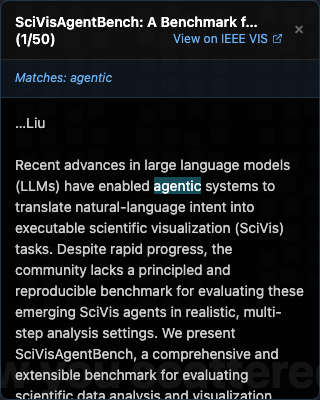
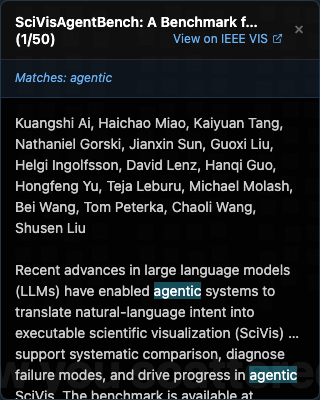
IEEE VIS popup: cut the middle between far-apart hits, keep authors on a first piece
Hits more than 60 words apart are shown as separate passages joined by an
ellipsis; a paper's first piece keeps its authors whatever is searched.

Claude-Session: https://claude.ai/code/session_01DBAPtZoiNH14vcZbZFmLgJ

Changed region(s): [[0.0312, 0.27, 0.9688, 1.0]]

diff --git a/apps/ieeevis/src/excerpts.ts b/apps/ieeevis/src/excerpts.ts
@@ -7,6 +7,8 @@ import type { PaperTexts } from './data.ts';
 
 /** Words kept on each side of the hits. */
 export const HIT_CONTEXT_WORDS = 10;
+/** The most words between two hits that are still shown. */
+export const HIT_GAP_WORDS = 60;
 /** About how long a default excerpt is; a sentence runs on to a whole one up to the longer limit. */
 const DEFAULT_WORDS = 20;
 const DEFAULT_WORDS_MAX = 26;
@@ -35,22 +37,42 @@ function cut(
 }
 
 /**
- * The words around the hits, from `context` words before the first to `context` after the
- * last, so several hits read as one passage; null when there are none.
+ * The words around the hits, `context` words either side. Hits no more than `gap` words apart
+ * read as one passage, with the words between them; further apart, the middle is left out.
+ * Null when there are no hits.
  */
 export function hitExcerpt(
   text: string,
   hits: readonly TextRange[],
   context = HIT_CONTEXT_WORDS,
+  gap = HIT_GAP_WORDS,
 ): string | null {
-  if (hits.length === 0) return null;
   const spans = wordSpans(text);
-  const hitStart = Math.min(...hits.map((h) => h.start));
-  const hitEnd = Math.max(...hits.map((h) => h.end));
-  const first = spans.findIndex((s) => s.end > hitStart);
-  const last = spans.filter((s) => s.start < hitEnd).length - 1;
-  if (first < 0 || last < first) return null;
-  return cut(text, spans, Math.max(0, first - context), Math.min(spans.length - 1, last + context));
+  const found = hits
+    .map((h) => ({
+      from: spans.findIndex((s) => s.end > h.start),
+      to: spans.filter((s) => s.start < h.end).length - 1,
+    }))
+    .filter((h) => h.from >= 0 && h.to >= h.from)
+    .sort((a, b) => a.from - b.from);
+  if (found.length === 0) return null;
+
+  const passages = [{ ...found[0] }];
+  for (const hit of found.slice(1)) {
+    const last = passages[passages.length - 1];
+    if (hit.from - last.to - 1 <= gap) last.to = Math.max(last.to, hit.to);
+    else passages.push({ ...hit });
+  }
+  const reach = passages.map(({ from, to }) => ({
+    from: Math.max(0, from - context),
+    to: Math.min(spans.length - 1, to + context),
+  }));
+  const read = reach
+    .map((r) => text.slice(spans[r.from].start, spans[r.to].end))
+    .join(` ${ELLIPSIS} `);
+  const lead = reach[0].from > 0 ? ELLIPSIS : '';
+  const trail = reach[reach.length - 1].to < spans.length - 1 ? ELLIPSIS : '';
+  return lead + read + trail;
 }
 
 const NOT_AN_END = new Set([

diff --git a/apps/ieeevis/src/text.ts b/apps/ieeevis/src/text.ts
@@ -175,10 +175,17 @@ export const ieeevisText: MapText<PieceItem, TermSettings> = {
         const text = isPlaceholder(item) ? NO_TEXT : texts?.[item.id];
         const shown = text && item.section === 'f' ? referenceLines(text) : text;
         const body = squareBody(item, shown);
-        const hits = search ? hitRanges(item, body, search) : [];
+        // A paper's first piece always keeps its authors, which come before the text in `body`.
+        const authorsLength = body.length - (shown?.length ?? 0);
+        const hits = (search ? hitRanges(item, body, search) : [])
+          .filter((h) => h.start >= authorsLength)
+          .map((h) => ({ start: h.start - authorsLength, end: h.end - authorsLength }));
+        const hit = shown && !isPlaceholder(item) ? hitExcerpt(shown, hits) : null;
         const excerpt = isPlaceholder(item)
           ? body
-          : (hitExcerpt(body, hits) ?? defaultBody(item, shown, texts));
+          : hit !== null
+            ? squareBody(item, hit)
+            : defaultBody(item, shown, texts);
         return {
           ref: `${title}, piece\u00a0${item.piece + 1}\u00a0of\u00a0${pieces.length}`,
           hebrew: '',

diff --git a/apps/ieeevis/test/excerpts.test.ts b/apps/ieeevis/test/excerpts.test.ts
@@ -24,6 +24,12 @@ describe('the words around a hit', () => {
     expect(hitExcerpt(text, [at(text, 'w38')])).toBe(`…${numbered(13, 28)}`);
   });
 
+  it('leaves out the middle when hits are far apart', () => {
+    expect(hitExcerpt(text, [at(text, 'w5'), at(text, 'w35')], 2, 10)).toBe(
+      '…' + numbered(5, 3) + ' … ' + numbered(5, 33) + '…',
+    );
+  });
+
   it('takes a whole word when the hit is part of one', () => {
     expect(hitExcerpt('alpha beta gamma', [{ start: 7, end: 9 }], 0)).toBe('…beta…');
   });
